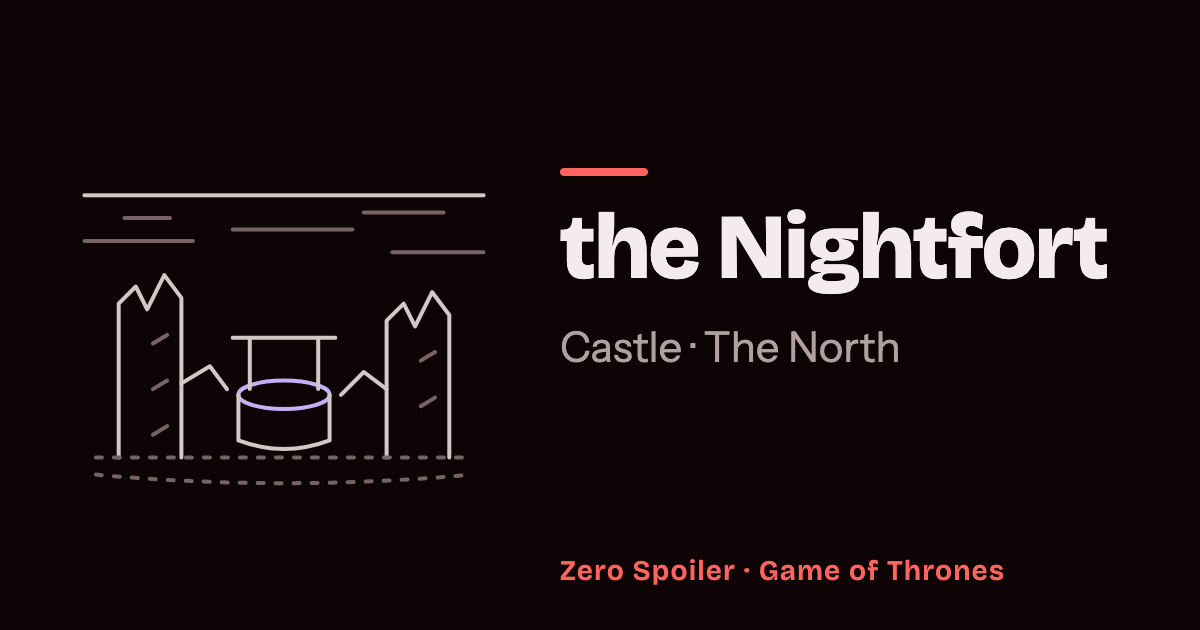
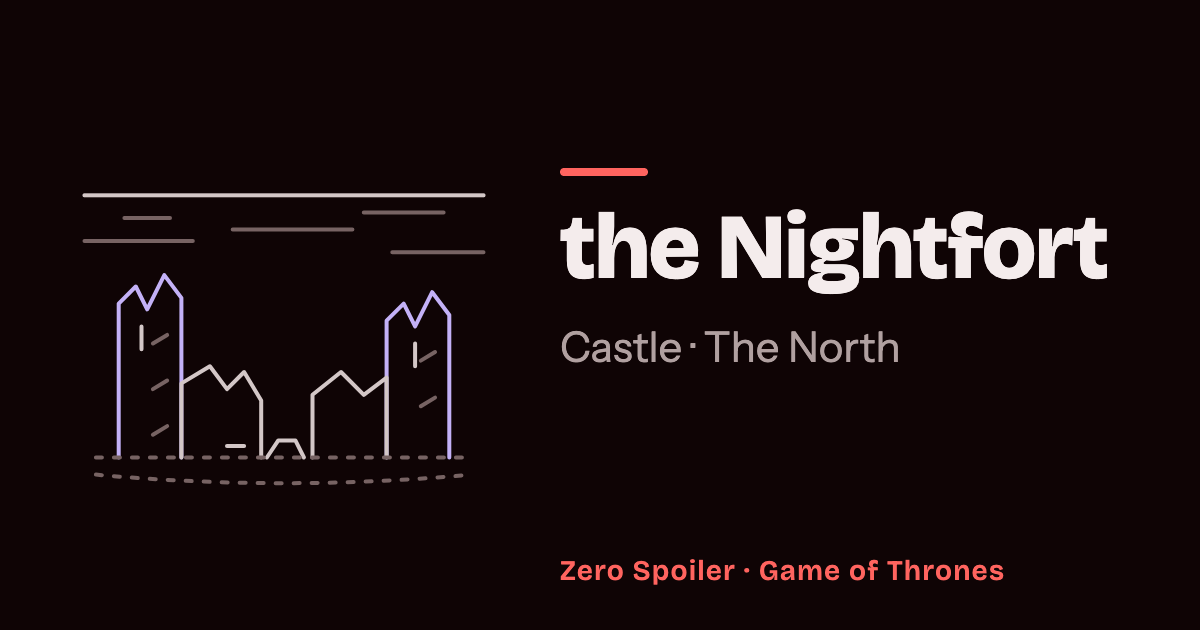
fix(thrones): open Astapor, Yunkai and the Milkwater at their first naming

Changed region(s): [[0.185, 0.4524, 0.4008, 0.7238], [0.0925, 0.4222, 0.1542, 0.7238]]

diff --git a/src/data/series/game-of-thrones/records/season-3.ts b/src/data/series/game-of-thrones/records/season-3.ts
@@ -1389,9 +1389,10 @@ export const season3: ThronesSaga = {
     // visits, each at its first naming in the stage, as
     // `game-of-thrones-season-3-places.md` lists them.
     // Show: "Valar Dohaeris", Daenerys's ship arrives at Astapor and Kraznys
-    // shows her the Unsullied. Books: Daenerys II (site chapter 167), the
-    // first chapter set in the city; Daenerys I (152) names it as the ship's
-    // destination.
+    // shows her the Unsullied. Books: Daenerys I (site chapter 152), Jorah
+    // advises sailing to Astapor to buy Unsullied; Daenerys II (167) is the
+    // first chapter set in the city. A place named, then visited, opens at
+    // the naming (filing-records §2).
     {
       id: 'astapor',
       kind: 'place',
@@ -1400,7 +1401,7 @@ export const season3: ThronesSaga = {
       // Daenerys's and Jorah's season-2 stories tell.
       nameSaidAt: 18,
       revealedAtEpisode: 21,
-      revealedAtChapter: 167,
+      revealedAtChapter: 152,
       name: { it: 'Astapor', en: 'Astapor' },
       summary: {
         it: 'Una città sulla costa della Baia degli Schiavisti, in Essos, dove gli schiavisti addestrano e vendono gli Immacolati.',
@@ -1409,13 +1410,14 @@ export const season3: ThronesSaga = {
       visual: { art: 'astapor', tint: 'vermilion' },
     },
     // Show: "The Bear and the Maiden Fair", Daenerys's army marches on Yunkai
-    // and she receives its envoy before the walls. Books: Daenerys IV (site
-    // chapter 186), the army reaches the city.
+    // and she receives its envoy before the walls. Books: Daenerys II (site
+    // chapter 167), A Wiki of Ice and Fire's chapter page listing it among
+    // the places mentioned; Daenerys IV (186) brings the army to it.
     {
       id: 'yunkai',
       kind: 'place',
       revealedAtEpisode: 27,
-      revealedAtChapter: 186,
+      revealedAtChapter: 167,
       name: { it: 'Yunkai', en: 'Yunkai' },
       summary: {
         it: 'Una città di schiavisti sulla Baia degli Schiavisti, in Essos.',
@@ -1461,8 +1463,9 @@ export const season3: ThronesSaga = {
       },
       visual: { art: 'inn-of-the-kneeling-man', tint: 'ocher' },
     },
-    // Books only. Jon I (site chapter 151), Jon meets Mance Rayder in the
-    // wildlings' camp along the river, which the prologue (144) names. The
+    // Books only. The prologue (site chapter 144), Chett hunts a bear near
+    // the river, which Mance Rayder's host is coming down; Jon I (151) meets
+    // Mance in the camp along it, a dated step. The
     // show sets Mance's camp in the Frostfangs and never names the river;
     // episode 21 orders it.
     {
@@ -1474,7 +1477,7 @@ export const season3: ThronesSaga = {
       // order at episode 15.
       nameSaidAt: 15,
       revealedAtEpisode: 21,
-      revealedAtChapter: 151,
+      revealedAtChapter: 144,
       name: { it: 'Fiumelatte', en: 'the Milkwater' },
       summary: {
         it: 'Un fiume oltre la Barriera, che scende dalle montagne.',
@@ -1744,8 +1747,8 @@ export const SEASON_3_PLACES: Record<
       en: 'Stepped pyramids of red brick above the walls on the sea',
     },
     log: {
-      it: 'Daenerys Targaryen arriva qui in cerca di un esercito. I padroni della città le mostrano gli Immacolati, soldati schiavi addestrati fin da bambini a obbedire, e le propongono di venderglieli.',
-      en: 'Daenerys Targaryen comes here looking for an army. The city’s masters show her the Unsullied, slave soldiers trained from boyhood to obey, and offer to sell them to her.',
+      it: 'Daenerys Targaryen fa vela verso la città in cerca di un esercito: qui si comprano gli Immacolati, soldati schiavi addestrati fin da bambini a obbedire.',
+      en: 'Daenerys Targaryen sails for the city looking for an army: the Unsullied are bought here, slave soldiers trained from boyhood to obey.',
     },
     filedHere: ['missandei', 'kraznys-mo-nakloz'],
     // "And Now His Watch Is Ended" and Daenerys III (site chapter 171): the
@@ -1769,8 +1772,8 @@ export const SEASON_3_PLACES: Record<
       en: 'Walls and a great gate, with a pyramid behind them',
     },
     log: {
-      it: 'Daenerys Targaryen porta il suo esercito sotto le mura della città. Uno dei padroni della città viene a offrirle dell’oro perché se ne vada, e lei rifiuta.',
-      en: 'Daenerys Targaryen brings her army to the city’s walls. One of the city’s masters comes to offer her gold to go away, and she refuses.',
+      it: 'È una delle città di schiavisti della Baia degli Schiavisti.',
+      en: 'It is one of the slaver cities of Slaver’s Bay.',
     },
     filedHere: [
       'grey-worm',
@@ -1779,16 +1782,18 @@ export const SEASON_3_PLACES: Record<
       'daario-naharis',
       'prendahl-na-ghezn',
     ],
-    // "The Rains of Castamere" takes the city by night. Daenerys IV (site
-    // chapter 186), the chapter the place opens in, tells the same night,
-    // so the visit waits for the next chapter.
+    // Daenerys IV (site chapter 186) brings the army to the walls, where a
+    // master offers gold ("The Bear and the Maiden Fair", the place's own
+    // episode), and takes the city that night ("The Rains of Castamere").
+    // The show's siege and fall run past the place's episode, so one step at
+    // 29 / 186 carries both.
     visits: [
       {
         episode: 29,
-        chapter: 187,
+        chapter: 186,
         value: {
-          it: 'Le forze di Daenerys prendono la città con un attacco notturno.',
-          en: 'Daenerys’s forces take the city in a night attack.',
+          it: 'Daenerys porta il suo esercito sotto le mura e rifiuta l’oro che uno dei padroni le offre perché se ne vada. Poi le sue forze prendono la città con un attacco notturno.',
+          en: 'Daenerys brings her army to the walls and refuses the gold one of the masters offers her to go away. Then her forces take the city in a night attack.',
         },
       },
     ],
@@ -1797,8 +1802,8 @@ export const SEASON_3_PLACES: Record<
     form: 'castle',
     region: 'the-north',
     landmark: {
-      it: 'Torri in rovina ai piedi della Barriera, attorno a un pozzo',
-      en: 'Ruined towers below the Wall, around a well',
+      it: 'Torri in rovina ai piedi della Barriera',
+      en: 'Ruined towers below the Wall',
     },
     log: {
       it: 'È uno dei castelli che i Guardiani della Notte hanno abbandonato lungo la Barriera.',
@@ -1827,9 +1832,20 @@ export const SEASON_3_PLACES: Record<
       en: 'A pale river between snowy mountains',
     },
     log: {
-      it: 'Il grande accampamento dei bruti di Mance Rayder si stende lungo le sue rive. Jon Snow viene portato qui davanti a lui.',
-      en: 'Mance Rayder’s great camp of wildlings stretches along its banks. Jon Snow is brought before him here.',
+      it: 'Il grande esercito di bruti di Mance Rayder scende lungo il fiume. Dei confratelli dei Guardiani della Notte vanno a caccia sulle sue rive.',
+      en: 'Mance Rayder’s great host of wildlings is coming down the river. Brothers of the Night’s Watch hunt along its banks.',
     },
+    // Jon I (site chapter 151); episode 22 orders it, after the place's own.
+    visits: [
+      {
+        episode: 22,
+        chapter: 151,
+        value: {
+          it: 'Il grande accampamento dei bruti di Mance Rayder si stende lungo le sue rive. Jon Snow viene portato qui davanti a lui.',
+          en: 'Mance Rayder’s great camp of wildlings stretches along its banks. Jon Snow is brought before him here.',
+        },
+      },
+    ],
     // Mance's host (#1638): the show's camp in the Frostfangs is not filed,
     // so they are filed at the book's, Jon I (site chapter 151).
     filedHere: [

diff --git a/src/data/series/game-of-thrones/art/places.ts b/src/data/series/game-of-thrones/art/places.ts
@@ -2105,10 +2105,10 @@ const YUNKAI: Stroke[] = [
 ]
 
 /**
- * The Nightfort: broken towers and walls below the Wall's face, around the
- * well, as Bran's party finds the abandoned castle in episode 30, named in
- * episode 29 and in Jon III (chapter 170). The towers' far faces are hatched;
- * the accent is the mouth of the well.
+ * The Nightfort: broken towers and a fallen curtain wall below the Wall's
+ * face, the abandoned castle Sam names in episode 29 and Jon III (chapter
+ * 170) names. The towers' far faces are hatched; the accent is the ruined
+ * towers.
  */
 const NIGHTFORT: Stroke[] = [
   { d: 'M10 58 H150' },
@@ -2116,12 +2116,14 @@ const NIGHTFORT: Stroke[] = [
     d: 'M10 74 H48 M62 70 H104 M118 78 H150 M24 66 H40 M108 64 H136',
     role: 'ambient',
   },
-  { d: 'M22 150 V96 L28 90 L32 98 L38 86 L44 94 V150' },
-  { d: 'M116 150 V102 L122 96 L126 104 L132 92 L138 100 V150' },
-  { d: 'M44 124 L54 118 L60 126 M100 128 L108 120 L116 126', role: 'soft' },
-  { d: ellipse(80, 128, 16, 5), role: 'accent' },
-  { d: 'M64 128 V144 Q80 150 96 144 V128' },
-  { d: 'M68 126 V108 M92 126 V108 M62 108 H98', role: 'soft' },
+  {
+    d: 'M22 150 V96 L28 90 L32 98 L38 86 L44 94 V150 M116 150 V102 L122 96 L126 104 L132 92 L138 100 V150',
+    role: 'accent',
+  },
+  { d: 'M44 150 V124 L54 118 L60 126 L66 120 L72 130 V150' },
+  { d: 'M90 150 V128 L100 120 L108 128 L116 122 V150' },
+  { d: 'M74 150 l4 -6 h6 l3 6 M60 146 h6', role: 'soft' },
+  { d: 'M30 104 V112 M126 110 V118', role: 'soft' },
   {
     d: 'M34 110 l5 -3 M34 126 l5 -3 M34 142 l5 -3 M128 116 l5 -3 M128 132 l5 -3',
     role: 'ambient',
@@ -2999,10 +3001,9 @@ export const placesRedrawn: Redrawings = {
   // Sacked (#1630): "And Now His Watch Is Ended" (episode 24) and Daenerys
   // III (ASOS 27, site 171).
   'astapor': [{ episode: 24, chapter: 171, value: ASTAPOR_SACKED }],
-  // Taken (#1630): "The Rains of Castamere" (episode 29). Daenerys IV (ASOS
-  // 42, site 186) takes the city in the chapter its record opens in, so the
-  // stage is pinned at the next chapter, 187.
-  'yunkai': [{ episode: 29, chapter: 187, value: YUNKAI_TAKEN }],
+  // Taken (#1630): "The Rains of Castamere" (episode 29) and Daenerys IV
+  // (ASOS 42, site 186).
+  'yunkai': [{ episode: 29, chapter: 186, value: YUNKAI_TAKEN }],
   // Burned: the wildfire takes Stannis's fleet in "Blackwater" (episode
   // 19) and in Davos III (ACOK 58, site 132), the chapter the bay opens in.
   'blackwater-bay': [

diff --git a/src/server/archive/thronesSeason3Places.test.ts b/src/server/archive/thronesSeason3Places.test.ts
@@ -35,8 +35,8 @@ const PLACES: {
   id: string
   source?: 'chapter' | 'episode'
 }[] = [
-  { id: 'astapor', episode: 21, chapter: 167 },
-  { id: 'yunkai', episode: 27, chapter: 186 },
+  { id: 'astapor', episode: 21, chapter: 152 },
+  { id: 'yunkai', episode: 27, chapter: 167 },
   { id: 'nightfort', episode: 29, chapter: 170 },
   {
     id: 'inn-of-the-kneeling-man',
@@ -44,7 +44,7 @@ const PLACES: {
     chapter: 155,
     source: 'chapter',
   },
-  { id: 'milkwater', episode: 21, chapter: 151, source: 'chapter' },
+  { id: 'milkwater', episode: 21, chapter: 144, source: 'chapter' },
   { id: 'maidenpool', episode: 23, chapter: 165, source: 'chapter' },
   { id: 'high-heart', episode: 23, chapter: 166, source: 'chapter' },
   { id: 'acorn-hall', episode: 23, chapter: 166, source: 'chapter' },
@@ -82,18 +82,17 @@ const VISITS: {
   source?: 'chapter' | 'episode'
 }[] = [
   { id: 'astapor', episode: 24, chapter: 171 },
-  { id: 'yunkai', episode: 29, chapter: 187 },
+  { id: 'yunkai', episode: 29, chapter: 186 },
   { id: 'harrenhal', episode: 22, chapter: 121 },
   { id: 'fist-of-the-first-men', episode: 21, chapter: 162 },
   { id: 'crasters-keep', episode: 24, chapter: 177 },
   { id: 'dreadfort', episode: 30, chapter: 284 },
   { id: 'flea-bottom', episode: 21, chapter: 150, source: 'episode' },
+  { id: 'milkwater', episode: 22, chapter: 151, source: 'chapter' },
 ]
 
 /**
- * Each later drawing of a place this stage changes, at its pin. Yunkai is
- * taken in the chapter it opens in (186), so its stage waits for the next
- * chapter.
+ * Each later drawing of a place this stage changes, at its pin.
  */
 const STAGES: {
   chapter: number
@@ -105,7 +104,7 @@ const STAGES: {
   { id: 'harrenhal', episode: 22, chapter: 121 },
   { id: 'fist-of-the-first-men', episode: 21, chapter: 159 },
   { id: 'astapor', episode: 24, chapter: 171 },
-  { id: 'yunkai', episode: 29, chapter: 187 },
+  { id: 'yunkai', episode: 29, chapter: 186 },
 ]
 
 /** The bookmark of the other medium at the stage's last count. */

diff --git a/docs/content-provenance/game-of-thrones-season-3-places.md b/docs/content-provenance/game-of-thrones-season-3-places.md
@@ -42,11 +42,11 @@ restated for the stage:
 
 | Place                     | Episode | Chapter | Note                                     |
 | ------------------------- | ------- | ------- | ---------------------------------------- |
-| `astapor`                 | 21      | 167     | both media                               |
-| `yunkai`                  | 27      | 186     | both media                               |
+| `astapor`                 | 21      | 152     | both media; Daenerys I names it          |
+| `yunkai`                  | 27      | 167     | both media; Daenerys II names it         |
 | `nightfort`               | 29      | 170     | the show visits it; the book names it    |
 | `inn-of-the-kneeling-man` | 22      | 155     | book only; the episode orders it         |
-| `milkwater`               | 21      | 151     | book only                                |
+| `milkwater`               | 21      | 144     | book only; the prologue is set by it     |
 | `maidenpool`              | 23      | 165     | book only                                |
 | `high-heart`              | 23      | 166     | book only                                |
 | `acorn-hall`              | 23      | 166     | book only                                |
@@ -70,19 +70,20 @@ restated for the stage:
 
 ## Dated steps on earlier places
 
-| Place                   | Episode | Chapter | Step                                                  |
-| ----------------------- | ------- | ------- | ----------------------------------------------------- |
-| `harrenhal`             | 22      | 121     | taken: the northmen hold it for Robb; drawing stage   |
-| `fist-of-the-first-men` | 21      | 162     | overrun: the attack and the flight south              |
-| `crasters-keep`         | 24      | 177     | taken by the mutineers; no drawing stage              |
-| `dreadfort`             | 30      | 284     | visited: Theon held there and renamed (#852)          |
-| `flea-bottom`           | 21      | 150     | visited, the show alone: Margaery and the orphans     |
-| `astapor`               | 24      | 171     | sacked: the Unsullied bought and the masters killed   |
-| `yunkai`                | 29      | 187     | taken by night; the book's chapter is the place's own |
+| Place                   | Episode | Chapter | Step                                                     |
+| ----------------------- | ------- | ------- | -------------------------------------------------------- |
+| `harrenhal`             | 22      | 121     | taken: the northmen hold it for Robb; drawing stage      |
+| `fist-of-the-first-men` | 21      | 162     | overrun: the attack and the flight south                 |
+| `crasters-keep`         | 24      | 177     | taken by the mutineers; no drawing stage                 |
+| `dreadfort`             | 30      | 284     | visited: Theon held there and renamed (#852)             |
+| `flea-bottom`           | 21      | 150     | visited, the show alone: Margaery and the orphans        |
+| `astapor`               | 24      | 171     | sacked: the Unsullied bought and the masters killed      |
+| `yunkai`                | 29      | 186     | the army at the walls, the gold refused, the city taken  |
+| `milkwater`             | 22      | 151     | book only: Jon brought to Mance in the camp on its banks |
 
 Drawing stages: `fist-of-the-first-men` 21 / 159 (Jon II, the dead horses on the
 slope), `harrenhal` 22 / 121 (the banners over the gatehouse), `astapor` 24 /
-171 (smoke over the city, the gate open, the whip dropped), `yunkai` 29 / 187
+171 (smoke over the city, the gate open, the whip dropped), `yunkai` 29 / 186
 (the gate open).
 
 ## Open points
@@ -90,16 +91,18 @@ slope), `harrenhal` 22 / 121 (the banners over the gatehouse), `astapor` 24 /
 ### Visited
 
 - `astapor`: show 21, "Valar Dohaeris", the ship arrives and Kraznys shows
-  Daenerys the Unsullied. Book 167, Daenerys II; Daenerys I (152) names the city
-  as the ship's destination and is set at sea. The sack's smoke in the drawing
-  is the show's; the book chapter page says only that the city is conquered.
-  Filed here: Missandei and Kraznys mo Nakloz. Italian "Astapor", Italian
-  Wikipedia's section.
-- `yunkai`: show 27, "The Bear and the Maiden Fair". Book 186, Daenerys IV,
-  which also tells the night attack and the freed slaves; the visit and the
-  stage take chapter 187. Filed here: Grey Worm, Grazdan mo Eraz, Mero, Daario
-  Naharis, Prendahl na Ghezn. Owner check: the issue counts a taken place as a
-  drawing stage; the city is not damaged, so the stage only opens the gate.
+  Daenerys the Unsullied. Book 152, Daenerys I, where Jorah advises sailing to
+  Astapor (spoken; review round 2); Daenerys II (167) is set in the city. The
+  sack's smoke in the drawing is the show's; the book chapter page says only
+  that the city is conquered. Filed here: Missandei and Kraznys mo Nakloz.
+  Italian "Astapor", Italian Wikipedia's section.
+- `yunkai`: show 27, "The Bear and the Maiden Fair". Book 167, Daenerys II
+  (Mentions, the line not read), as Meereen is gated (review round 2); Daenerys
+  IV (186) brings the army and takes the city, the visit and the stage at 29
+  / 186. The log holds at 167: one of the slaver cities. Filed here: Grey Worm,
+  Grazdan mo Eraz, Mero, Daario Naharis, Prendahl na Ghezn. Owner check: the
+  issue counts a taken place as a drawing stage; the city is not damaged, so the
+  stage only opens the gate.
 - `nightfort`: show 29, Sam names it to Gilly in "The Rains of Castamere"
   (quoted on the episode page), and "Mhysa" (30) sets the first scene there; the
   gate is the naming (filing-records §2, review round 1). Owner check: stage 2
@@ -112,10 +115,12 @@ slope), `harrenhal` 22 / 121 (the banners over the gatehouse), `astapor` 24 /
   Punishment"), already filed, so the book's inn is the book's alone. Episode 22
   orders it. Italian "Locanda dell'Uomo in Ginocchio", the Italian Game of
   Thrones Wiki.
-- `milkwater`: Jon I (151), "along the Milkwater"; the prologue names it. The
-  show sets Mance's camp in the Frostfangs, folded into the Skirling Pass in
-  stage 2. Italian "Fiumelatte". Filed here: Mance Rayder, Tormund, Orell, Styr,
-  Dalla, Val and Jarl (#1638), met in Mance's camp.
+- `milkwater`: book 144, the prologue, where Chett hunts near the river and
+  Mance's host is coming down it (review round 2); Jon I (151), "along the
+  Milkwater", is a dated step. The show sets Mance's camp in the Frostfangs,
+  folded into the Skirling Pass in stage 2. Italian "Fiumelatte". Filed here:
+  Mance Rayder, Tormund, Orell, Styr, Dalla, Val and Jarl (#1638), met in
+  Mance's camp.
 - `maidenpool`: Jaime III (165), the town deserted and sacked. The show named it
   in episode 15; season 3 does not.
 - `high-heart`, `acorn-hall`: Arya IV (166). The show named Acorn Hall in season

diff --git a/docs/architecture.md b/docs/architecture.md
@@ -631,6 +631,6 @@ epithet, bounty and the like) are counted only as part of the timelines row.
 | Dated timelines        | 1141                                                                                    |
 | Affiliation steps      | 284                                                                                     |
 | Status steps           | 425                                                                                     |
-| Later visits to places | 12                                                                                      |
+| Later visits to places | 13                                                                                      |
 
 <!-- End of the generated counts. -->
